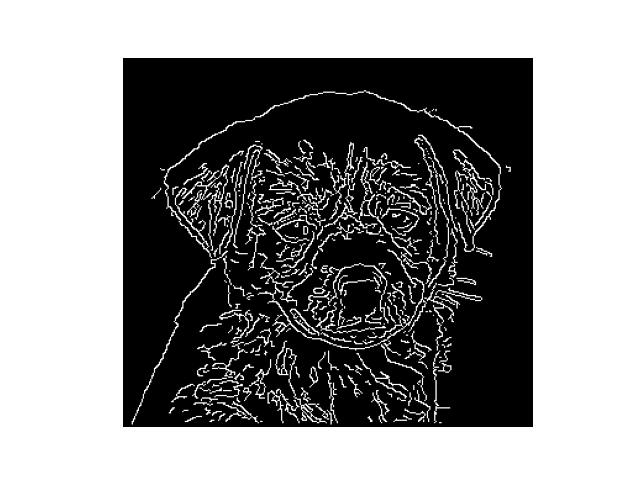
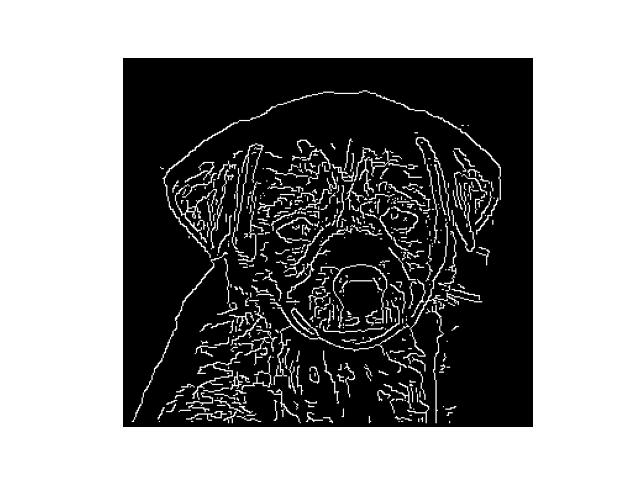
Edge Detection Working

diff --git a/main.py b/main.py
@@ -222,45 +222,68 @@ elif option == "Apply noise":
         st.image("images/output/Salt & pepper_noise.jpeg")
 
 
+# elif option == "Calculate histogram":
+#     if uploaded_file is not None:
+#         image1=cv2.imread(image_path1, 0)
+#         with st.sidebar:
+#             modes = st.selectbox("Histogram",("Normal","Equalized"))
+
+#         input_img, resulted_img = st.columns(2)
+#         with input_img:
+#             st.title("Input image")
+#             image = Image.open(uploaded_file)
+#             st.image(image1)
+#         with resulted_img:
+#             if modes == "Normal":
+#                 path_histogram = y.histogram(image1)
+#                 st.image(path_histogram)
+#             if modes == "Equalized":
+#                 path_equalized = y.equalized_image(image1)
+#                 st.image(path_equalized) # showing the equalized image
+#                 st.subheader("Equalized image histogram and distribution curve")
+#                 image_equal = plt.imread(path_equalized)
+#                 st.image(y.histogram(image_equal)) # applying histogram functio
+
+
     # ----------------------------Edge detection-------------------------------------------
 elif option == "Edge detection":
     input_img, resulted_img = st.columns(2)
-
-    with st.sidebar:
-        edge_detect_options = st.selectbox('Choose detector',('Canny','Sobel','Prewitt','Roberts'))
-    if edge_detect_options == 'Canny detector':
+    
+    if uploaded_file is not None:
+        image1=cv2.imread(image_path1, 0)
         with st.sidebar:
-            canny_kernal = st.selectbox('Select kernal size',('3x3','5x5'))
-            canny_sigma = st.number_input('Sigma', min_value=1, value=10, step=2)
-
-        with input_img :
+            edge_detect_options = st.selectbox('Choose detector',('Canny','Sobel','Prewitt','Roberts'))
+            if edge_detect_options == 'Canny':
+                canny_kernal = st.selectbox('Select kernal size',('3x3','5x5'))
+                canny_sigma = st.number_input('Sigma', min_value=1, value=10, step=2)
+            if edge_detect_options == "Sobel":
+                sobel = st.selectbox("Sobel",("Vertical","Horizontal","Both"))
+            elif edge_detect_options == "Prewitt":
+                prewitt = st.selectbox("Prewitt",("Vertical","Horizontal","Both"))
+            elif edge_detect_options == "Roberts":
+                roberts = st.selectbox("Roberts",("Vertical","Horizontal","Both"))
+                
+        with input_img:
             st.title("Input image")
             image = Image.open(uploaded_file)
-            st.image(uploaded_file)
-
+            st.image(image1)
         with resulted_img:
-            st.title("Output image")
-            image1=cv2.imread(image_path1,0)  
-            if canny_kernal == '3x3':
-                edge_detection.canny_detector(image1, 3, canny_sigma)
-                st.image("images/output/canny_detection.jpeg")
-            elif canny_kernal == '5x5':
-                edge_detection.canny_detector(image1, 5, canny_sigma)
-                st.image("images/output/canny_detection.jpeg")
+            st.title("Output image")  
+            if edge_detect_options == 'Canny':
+                if canny_kernal == '3x3':
+                    st.image(edge_detection.canny_detector(image1, 3, canny_sigma))
+                elif canny_kernal == '5x5':
+                    st.image(edge_detection.canny_detector(image1, 5, canny_sigma))
+            if edge_detect_options == 'Sobel':
+                st.image(y.sobel_filter(image1,modes(sobel)))
+            if edge_detect_options == 'Prewitt':
+                st.image(y.prewitt_filter(image1,modes(prewitt)))
+            if edge_detect_options == 'Roberts':
+                st.image(y.roberts_filter(image1,modes(roberts)))
             # elif canny_kernal == '9x9':
             #     edge_detection.canny_detector(image1, 9, canny_sigma)
             #     st.image("images/output/canny_detection.jpeg")
-
-    with st.sidebar:
-        if edge_detect_options == "Sobel":
-            sobel = st.selectbox("Sobel",("Vertical","Horizontal","Both"))
-            show_output(y.sobel_filter(image,modes(sobel)))
-        if edge_detect_options == "Prewitt":
-            prewitt = st.selectbox("Prewitt",("Vertical","Horizontal","Both"))
-            show_output(y.prewitt_filter(image,modes(prewitt)))
-        if edge_detect_options == "Roberts":
-            roberts = st.selectbox("Roberts",("Vertical","Horizontal","Both"))
-            show_output(y.roberts_filter(image,modes(roberts)))
+                
 
     # ----------------------------Histogram-------------------------------------------
 elif option == "Calculate histogram":

diff --git a/yehia.py b/yehia.py
@@ -1,6 +1,6 @@
 import matplotlib.pyplot as plt
 import numpy as np
-from scipy.signal import convolve2d
+# from scipy.signal import convolve2d
 from skimage.io import imsave
 
 def convolve2D(image, kernel, padding=0, strides=1):
@@ -84,20 +84,20 @@ def paths(mode,path1,image1,path2,image2,path3):
 def sobel_filter(image,mode):
     x_kernal = np.array([[1,0,-1],[2,0,-2],[1,0,-1]]) # vertical Sobel filter
     y_kernal = x_kernal.T # horizontal Sobel filter
-    image_x = convolve2d(image,x_kernal) # applying the vertical filter to the image
-    image_y = convolve2d(image,y_kernal) # applying the horizontal filter to the image
+    image_x = convolve2D(image,x_kernal) # applying the vertical filter to the image
+    image_y = convolve2D(image,y_kernal) # applying the horizontal filter to the image
     return paths(mode,"sobel-x.png",image_x,"sobel-y.png",image_y,"new-sobel.png")
 
 def roberts_filter(image,mode):
     kernal_x = np.array([[1,0],[0,-1]]) # vertical roberts filter
     kernal_y = np.flip(kernal_x,0).T #horizontal roberts filter
-    image_x = convolve2d(image,kernal_x) # applying the 1st filter to the image
-    image_y = convolve2d(image,kernal_y) # applying the 2nd filter to the image
+    image_x = convolve2D(image,kernal_x) # applying the 1st filter to the image
+    image_y = convolve2D(image,kernal_y) # applying the 2nd filter to the image
     return paths(mode,"roberts-x.png",image_x,"roberts-y.png",image_y,"new-roberts.png")
 
 def prewitt_filter(image,mode):
     kernal_x = np.array([[1,0,-1],[1,0,-1],[1,0,-1]]) # x-axis filter
     kernal_y = kernal_x.T # y-axis filter
-    image_x = convolve2d(image,kernal_x) # applying the 1st filter to the image
-    image_y = convolve2d(image,kernal_y) # applying the 2nd filter to the image
+    image_x = convolve2D(image,kernal_x) # applying the 1st filter to the image
+    image_y = convolve2D(image,kernal_y) # applying the 2nd filter to the image
     return paths(mode,"prewitt-x.png",image_x,"prewitt-y.png",image_y,"new-prewitt.png")

diff --git a/Edge_detection.py b/Edge_detection.py
@@ -146,6 +146,7 @@ def canny_detector(image: np.ndarray,kernal_size,sigma):
     Returns:
         _type_: matrix of the image with canny mask applied 
     """
+    path = "images/output/canny_detection.jpeg"
 
     img_grayscale = np.copy(image)
 
@@ -167,7 +168,7 @@ def canny_detector(image: np.ndarray,kernal_size,sigma):
     final_matrix = hysteresis(threshold_matrix, weak_value, strong_value)
     plt.imshow(final_matrix, cmap="gray")
     plt.axis("off")
-    plt.savefig("images/output/canny_detection.jpeg")    
-    return 
+    plt.savefig(path)    
+    return path
 
     # canny_detector(cv2.imread("images/original1.jpeg",0))
